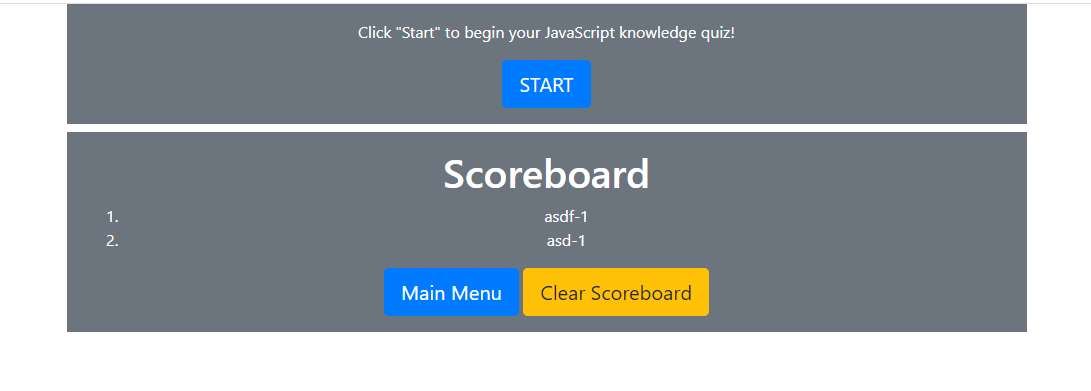
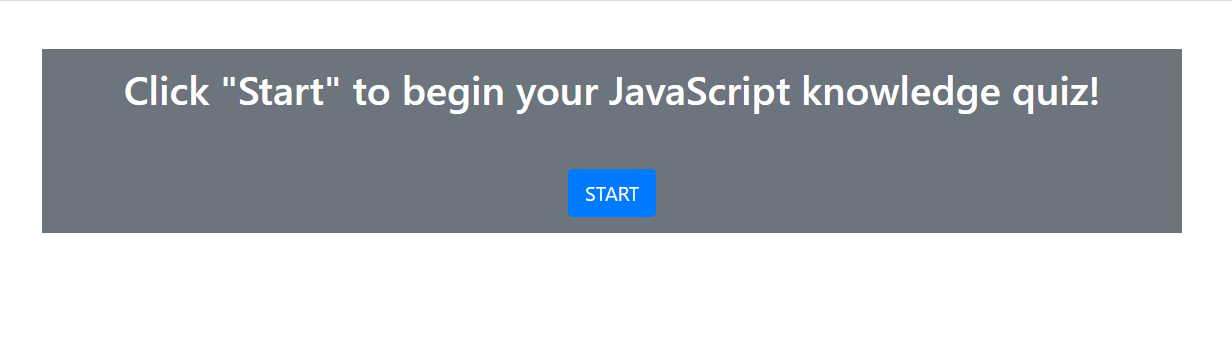
debugged all kinks, ready for final deploy

diff --git a/index.html b/index.html
@@ -9,13 +9,13 @@
     <style src="./assets/style.css"></style>
     <title>Joe's Pop Quiz!</title>
 </head>
-<body class = "min-100-vh flex-column">
+<body class = "min-100-vh flex-column mt-5">
     <div class="start container p-3 mb-2 bg-secondary text-white text-center justify-content-center" id="start">
-        <p class = "start text-center">Click "Start" to begin your JavaScript knowledge quiz!</p>
+        <h1 class = "start text-center">Click "Start" to begin your JavaScript knowledge quiz!<br><br></h1>
         <button id = "startbtn" class="btn btn-primary btn-lg align middle">START</button>
     </div>
     <div class="instructions container p-3 mb-2 bg-secondary text-white text-left" id="instructions" style = "display: none">
-        <p class = "rules">Here are some rules:</p>
+        <h1 class = "rules">Here are some rules:</h1>
         <ol>    
             <li>You will have 60 seconds to solve the next 10 questions.</li>
             <li>If you get a question WRONG, your timer will go DOWN by 10 seconds.</li>
@@ -30,13 +30,13 @@
         <div class = "timer bg-danger text-warning">
             <h2 id="displaySeconds"></h2>
         </div>
-        <div class = "answerButton col">
-            <button id ="choice1" class="btn btn-light" value = 0></button>
-            <button id ="choice2" class="btn btn-light" value = 1></button>
-            <button id ="choice3" class="btn btn-light" value = 2></button>
-            <button id ="choice4" class="btn btn-light" value = 3></button>
+        <div class = "answerButton">
+            <button id ="choice1" class="btn btn-light m-1" value = 0></button>
+            <button id ="choice2" class="btn btn-light m-1" value = 1></button>
+            <button id ="choice3" class="btn btn-light m-1" value = 2></button>
+            <button id ="choice4" class="btn btn-light m-1" value = 3></button>
         </div>
-        <h3 id = "checkAnswer"></h3>
+        <h3 id = "checkAnswer"></h3><Br>
         <button id = "quitbtn" class="btn btn-danger btn-sm">QUIT</button>
     </div>
     
@@ -46,14 +46,14 @@
 
         <div id = "scoreForm" class = "col">
             <form>
-                <label for="initial">Enter Your Initials! (Max of 4 characters)<label> 
+                <label for="initial" class = "mr-2">Enter Your Initials! (Max of 4 characters)  <label> 
                 <input type="text" id="initial" name = "initial" size="5" maxlength="4" placeholder="  HERE"/>
-                <button class="btn btn-primary btn-lg " id = "submitbtn" type="button">SUBMIT</button>
+                <button class="btn btn-primary btn-lg m-1" id = "submitbtn" type="button">SUBMIT</button>
             </form>
             <button id = "quitbtn" class="btn btn-danger btn-lg .float-left"> QUIT </button>
         </div>
     </div>
-    <div id="highScore" class="highScore container p-3 mb-2 bg-secondary text-white text-center" style = "display: block">
+    <div id="highScore" class="highScore container p-3 mb-2 bg-secondary text-white text-center" style = "display: none">
         <h1>Scoreboard</h1>
         <div id = "Scoreboard">
             <ol id = "recordList"></ol>

diff --git a/assets/script1.js b/assets/script1.js
@@ -97,7 +97,9 @@ clearButton.addEventListener("click", clearScoreboard);
 function clearScoreboard(){ 
     localStorage.clear(); 
     record = [];
+    alert("Scoreboard has been cleared!");
     location.reload();
+    show(scoreBoard);
 }
 
 //function to load highscore
@@ -107,7 +109,6 @@ function Scoreboard(){
     loadScore();
 }
 
-loadScore(); //has to be run due to scoreboard showing on start page. 
 // function to load score from local to html
 function loadScore(){ 
     let initialAndScore=JSON.parse(localStorage.getItem("userNameAndScore"));
@@ -141,20 +142,21 @@ function storeScore(){
 submitButton.addEventListener("click", function(event){ 
     event.preventDefault; 
     let userId = initialInput.value; 
-    if (userId === ""){ //to check initial is not blank
-        alert ("Your initials can't be blank!");
-    };
     
     let userNameAndScore = {
         userName: userId, 
         score: score
     };
 
+    if (userId === ""){ //to check initial is not blank
+        alert ("Your initials can't be blank!");
+    }else{ 
     record.push(userNameAndScore);
     console.log(record);
     initialInput.value = "";
     storeScore();
     Scoreboard();
+    }
 });
 
 
@@ -248,8 +250,8 @@ function instructions(){
 startButton.addEventListener("click", instructions);
 function instructions(){ 
     hide(startEl);
-    show(instructionsEl);
     hide(highScoreEl);
+    show(instructionsEl);
 };
 
 //hide element

diff --git a/README.md b/README.md
@@ -14,7 +14,8 @@ At the end of the quiz, you will be presented with a score with option to save. 
 If you do not wish to save your score, simply click the click button to go back to main menu. <br />
 Your score will save when you enter your initials. <br />
 Your score will be displayed on the scoreboard for you to compare to your last attemp.<br />
-You can start the quiz again by clicking on the "Main Menu". <br />
+You can clear your saved scores by clicking the "Clear Score" button. <br />
+You can return to the start by clicking the "Main Menu" button. <br />
 <br />
 Have fun and enjoy! <br />
 <br />
